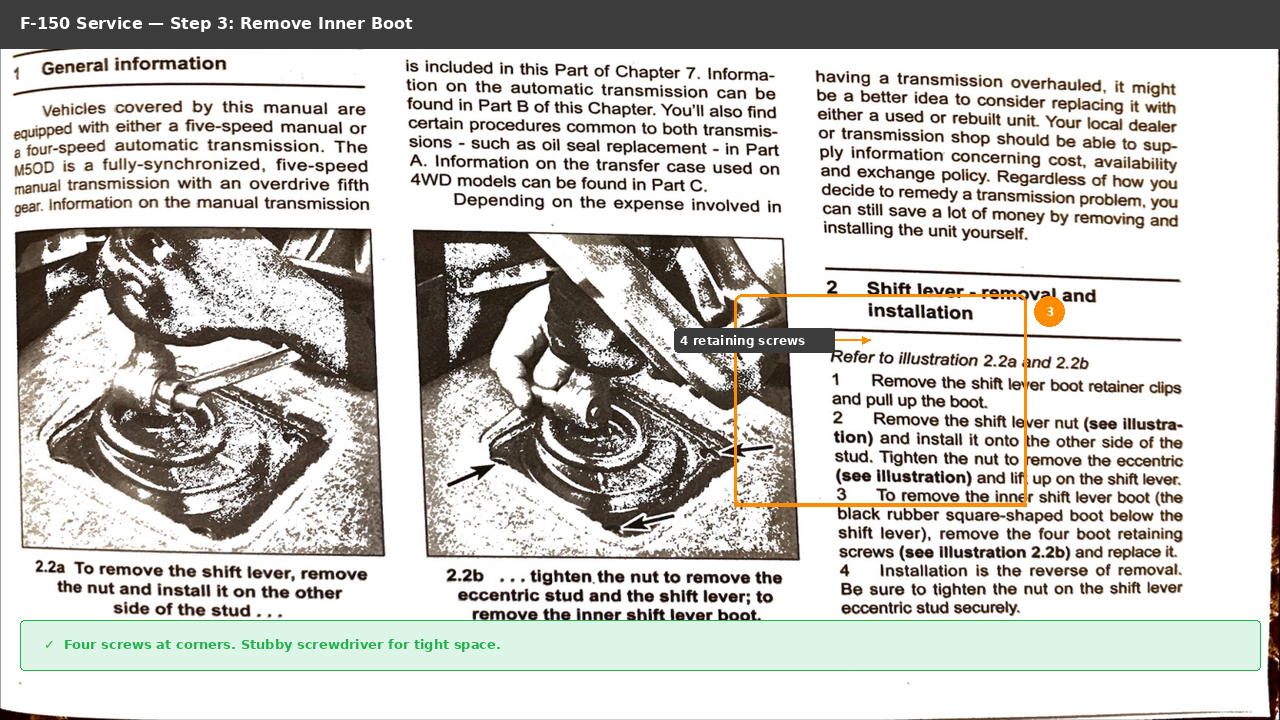
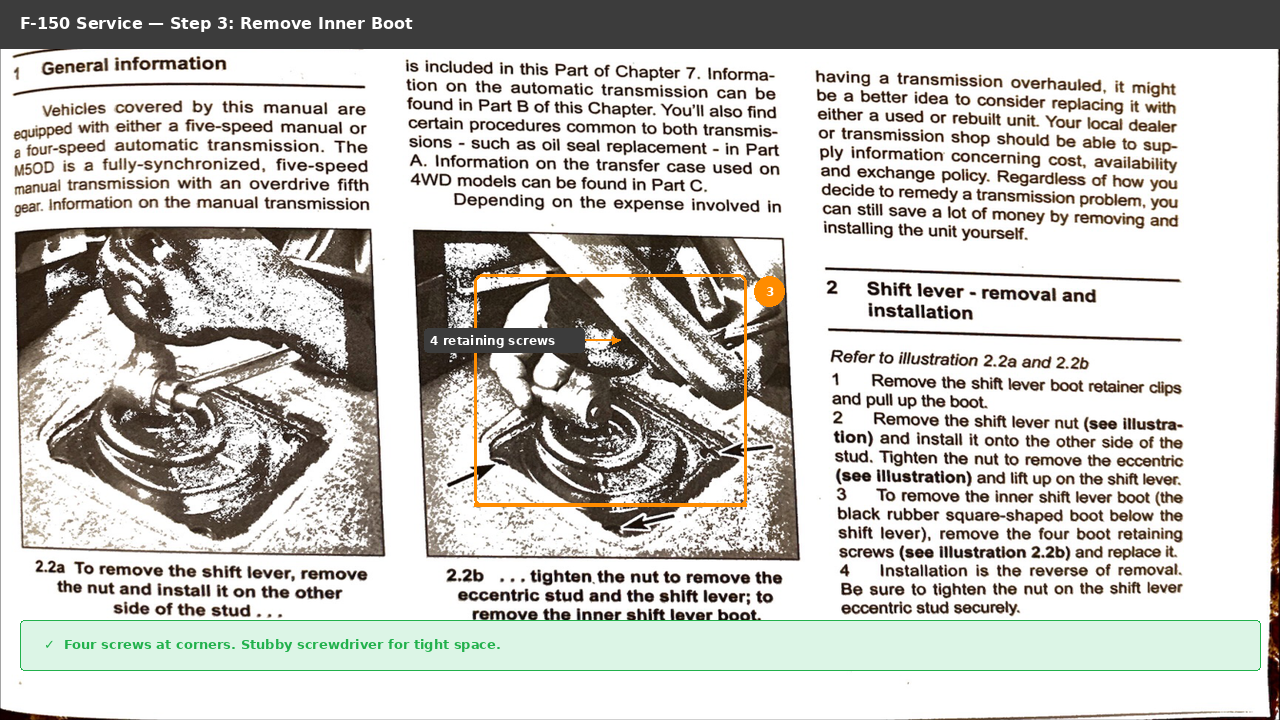
fix: correct step 3 and step 6 hotspot alignment — shifted left to center on illustrations

Changed region(s): [[0.375, 0.3667, 0.8438, 0.7028], [0.3125, 0.4278, 0.4688, 0.5194]]

diff --git a/poc/output/ui_trainer/f150_trans_service/index.html b/poc/output/ui_trainer/f150_trans_service/index.html
@@ -98,10 +98,10 @@ window.__SCENARIO__        = {
       "instruction": "Remove the four boot retaining screws from the inner shift lever boot (the black rubber square-shaped boot below the shift lever). Remove the boot.",
       "hint": "Four screws, one at each corner of the square rubber boot. A stubby screwdriver helps in the tight space. Keep the screws \u2014 they're specific to this application.",
       "hotspot": {
-        "x": 740,
-        "y": 300,
-        "w": 280,
-        "h": 200
+        "x": 480,
+        "y": 280,
+        "w": 260,
+        "h": 220
       },
       "feedback": "Four retaining screws removed. Inner boot lifted out. Transmission tunnel opening fully exposed.",
       "consequence": "Cross-threading the screws on reinstallation strips the threads in the floor pan. You'll need to tap new threads or use a larger screw. Take your time \u2014 these are small screws in soft metal.",
@@ -160,10 +160,10 @@ window.__SCENARIO__        = {
       "instruction": "Using a seal driver or a large deep socket, install the new extension housing seal. Drive it squarely into the bore and make sure it's completely seated. Reinstall the dust shield.",
       "hint": "The seal must go in SQUARE \u2014 if it cocks to one side, it will leak. A large socket that matches the outer diameter of the seal works as a driver. Tap evenly around the circumference.",
       "hotspot": {
-        "x": 520,
-        "y": 130,
-        "w": 460,
-        "h": 260
+        "x": 200,
+        "y": 150,
+        "w": 400,
+        "h": 280
       },
       "feedback": "New seal driven squarely into bore. Fully seated. Dust shield tapped back into place. Seal lip facing inward toward transmission.",
       "consequence": "Installing the seal crooked is the #1 cause of 'new seal still leaks' complaints. The seal lip must contact the output shaft evenly around its entire circumference. A cocked seal leaks immediately, and you'll have to pull the driveshaft again to redo it.",

diff --git a/poc/generators/scenarios/f150_trans_service.py b/poc/generators/scenarios/f150_trans_service.py
@@ -106,7 +106,7 @@ SCENARIO = {
             "goal":        "Remove the inner shift lever boot",
             "instruction": "Remove the four boot retaining screws from the inner shift lever boot (the black rubber square-shaped boot below the shift lever). Remove the boot.",
             "hint":        "Four screws, one at each corner of the square rubber boot. A stubby screwdriver helps in the tight space. Keep the screws — they're specific to this application.",
-            "hotspot":     {"x": 740, "y": 300, "w": 280, "h": 200},
+            "hotspot":     {"x": 480, "y": 280, "w": 260, "h": 220},
             "feedback":    "Four retaining screws removed. Inner boot lifted out. Transmission tunnel opening fully exposed.",
             "consequence": "Cross-threading the screws on reinstallation strips the threads in the floor pan. You'll need to tap new threads or use a larger screw. Take your time — these are small screws in soft metal.",
             "explore_info": [
@@ -156,7 +156,7 @@ SCENARIO = {
             "goal":        "Install the new extension housing seal",
             "instruction": "Using a seal driver or a large deep socket, install the new extension housing seal. Drive it squarely into the bore and make sure it's completely seated. Reinstall the dust shield.",
             "hint":        "The seal must go in SQUARE — if it cocks to one side, it will leak. A large socket that matches the outer diameter of the seal works as a driver. Tap evenly around the circumference.",
-            "hotspot":     {"x": 520, "y": 130, "w": 460, "h": 260},
+            "hotspot":     {"x": 200, "y": 150, "w": 400, "h": 280},
             "feedback":    "New seal driven squarely into bore. Fully seated. Dust shield tapped back into place. Seal lip facing inward toward transmission.",
             "consequence": "Installing the seal crooked is the #1 cause of 'new seal still leaks' complaints. The seal lip must contact the output shaft evenly around its entire circumference. A cocked seal leaks immediately, and you'll have to pull the driveshaft again to redo it.",
             "explore_info": [
@@ -322,7 +322,7 @@ def screen_step3_inner_boot(hl=True):
     hs = SCENARIO["tutorial"][2]["hotspot"]
     annotate_region(img, hs, label="3", hl=hl)
     if hl:
-        draw_callout(img, 870, 340, "4 retaining screws", anchor="left")
+        draw_callout(img, 620, 340, "4 retaining screws", anchor="left")
     if not hl:
         annotate_region(img, {"x": 200, "y": 280, "w": 130, "h": 80},
                         label="?", hl=False, decoy=True)
@@ -378,8 +378,8 @@ def screen_step6_install_seal(hl=True):
     hs = SCENARIO["tutorial"][5]["hotspot"]
     annotate_region(img, hs, label="6", hl=hl)
     if hl:
-        draw_callout(img, 400, 200, "Seal driver / deep socket", anchor="left")
-        draw_callout(img, 350, 300, "Drive SQUARE into bore", anchor="left")
+        draw_callout(img, 350, 220, "Seal driver / deep socket", anchor="right")
+        draw_callout(img, 300, 340, "Drive SQUARE into bore", anchor="right")
     if not hl:
         annotate_region(img, {"x": 100, "y": 250, "w": 130, "h": 70},
                         label="?", hl=False, decoy=True)
